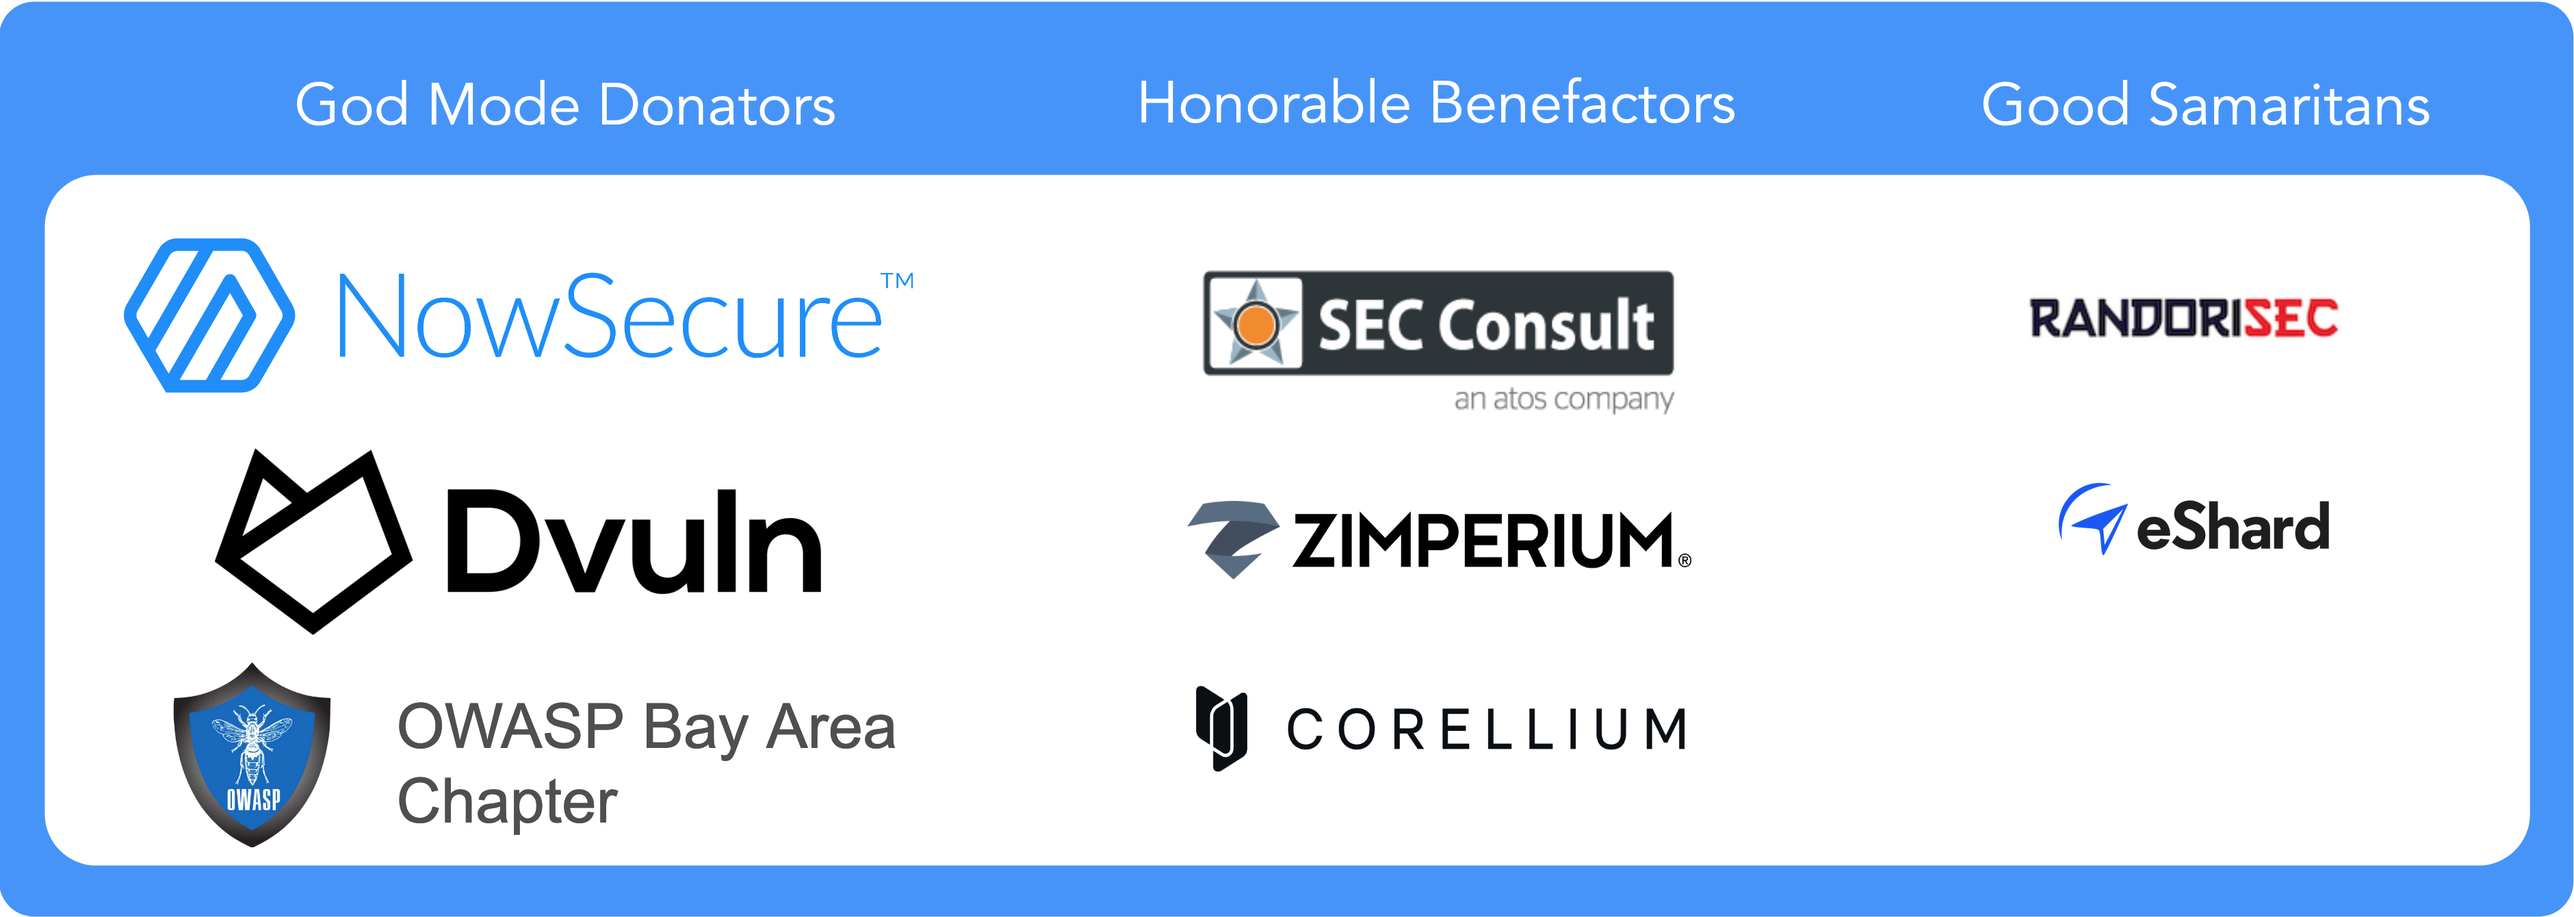
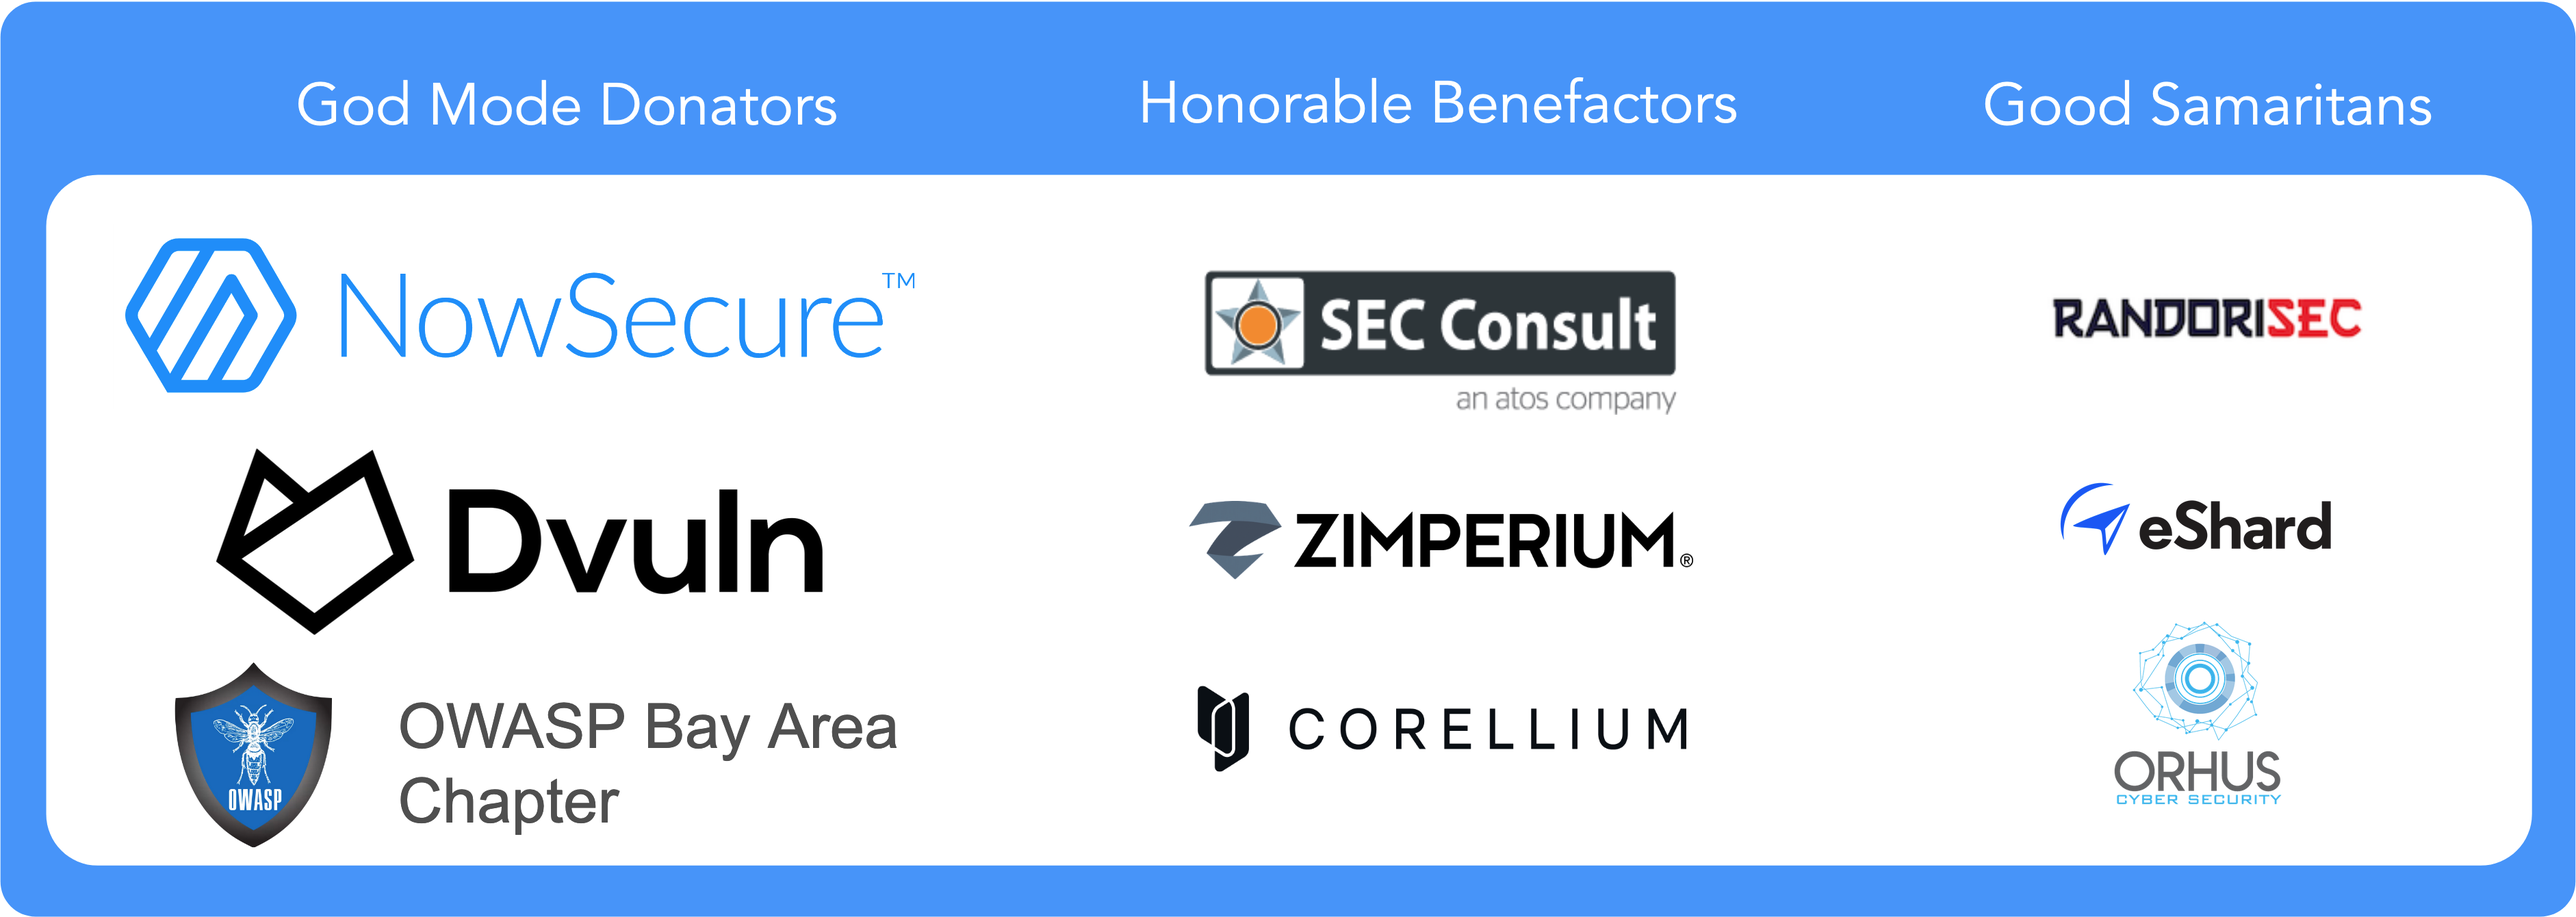
add ohrus donator

diff --git a/docs/donate.md b/docs/donate.md
@@ -27,5 +27,5 @@ We thank our donators for providing the funds to support us on our project activ
 **The OWASP Foundation is very grateful for the support by the individuals and organizations listed. However please note, the OWASP Foundation is strictly vendor neutral and does not endorse any of its supporters. Donations do not influence the content of the MASVS or MASTG in any way.**
 
 <br><br>
-<img style="border-radius: 15px;" src="../assets/donations/donators.png"/>
+<img style="border-radius: 15px;" src="https://github.com/OWASP/owasp-mastg/blob/master/Document/Images/Donators/donators.png"/>
 <br><br>
